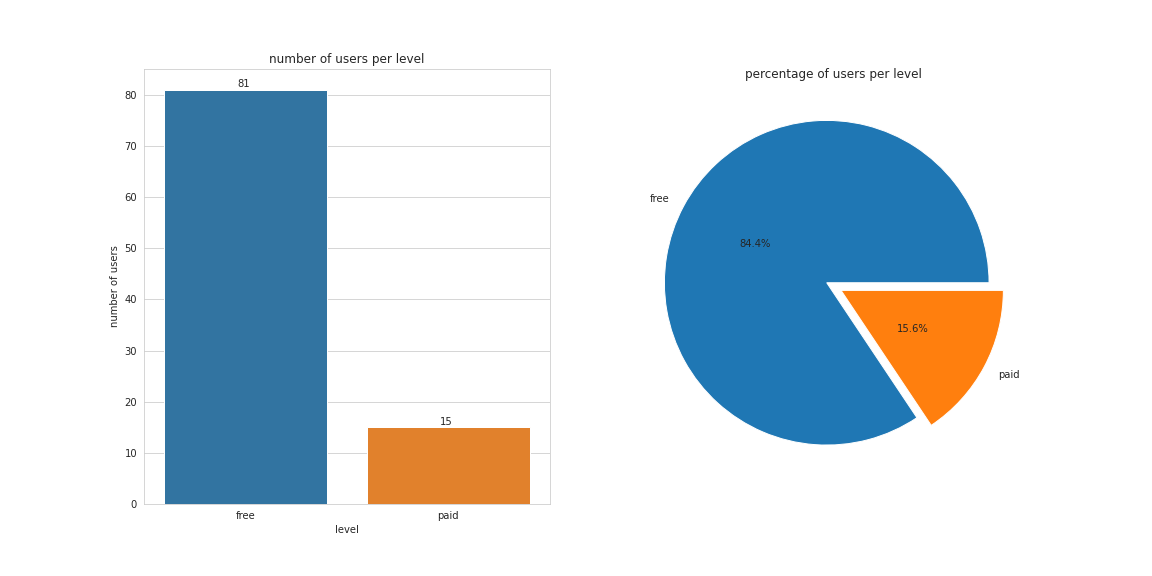
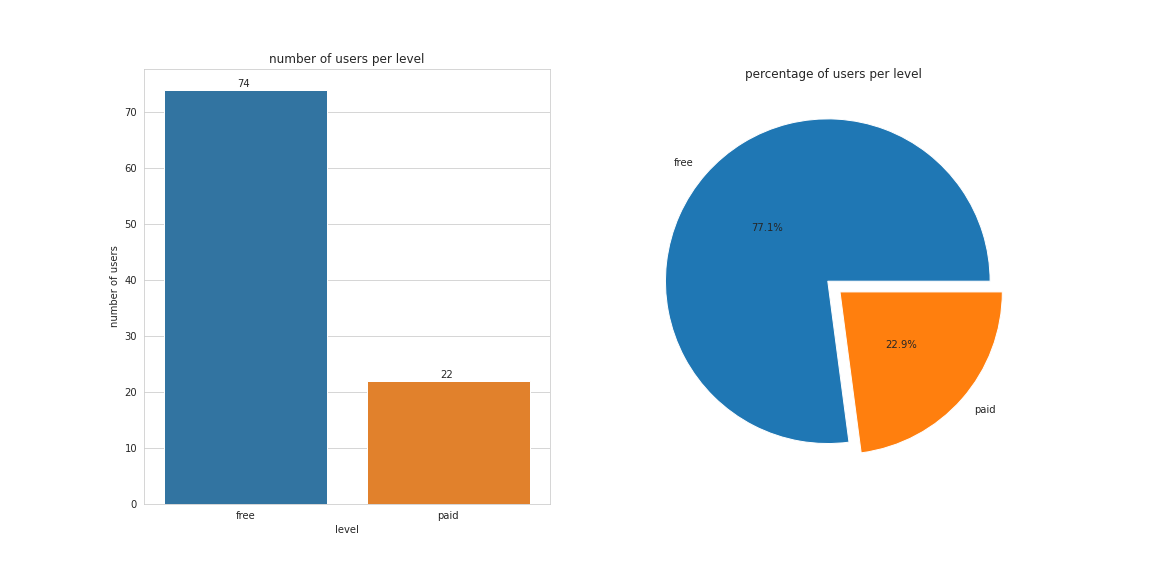
set data constraint NOT NULL, set DO UPDATE level on the table users

diff --git a/sql_queries.py b/sql_queries.py
@@ -2,7 +2,7 @@
 # @Author: anh-tuan.vu
 # @Date:   2020-12-09 21:49:31
 # @Last Modified by:   anh-tuan.vu
-# @Last Modified time: 2020-12-13 08:46:27
+# @Last Modified time: 2020-12-13 20:09:21
 
 # DROP TABLES
 
@@ -17,9 +17,9 @@ time_table_drop = "DROP TABLE IF EXISTS times;"
 songplay_table_create = ("""
 CREATE TABLE songplays(
     songplay_id SERIAL PRIMARY KEY,
-    start_time TIMESTAMP,
-    user_id INT,
-    level VARCHAR,
+    start_time TIMESTAMP NOT NULL,
+    user_id INT NOT NULL,
+    level VARCHAR NOT NULL,
     song_id VARCHAR,
     artist_id VARCHAR,
     session_id INT,
@@ -34,7 +34,7 @@ CREATE TABLE users(
     first_name VARCHAR,
     last_name VARCHAR,
     gender CHAR,
-    level VARCHAR
+    level VARCHAR NOT NULL
 );
 """)
 
@@ -42,7 +42,7 @@ song_table_create = ("""
 CREATE TABLE songs(
     song_id VARCHAR PRIMARY KEY,
     title VARCHAR,
-    artist_id VARCHAR,
+    artist_id VARCHAR NOT NULL,
     year INT,
     duration DECIMAL
 );
@@ -84,7 +84,8 @@ user_table_insert = ("""
 INSERT INTO users(user_id, first_name, last_name, gender, level)
 VALUES(%s, %s, %s, %s, %s)
 ON CONFLICT(user_id)
-DO NOTHING;
+DO UPDATE
+    SET level = EXCLUDED.level;
 """)
 
 song_table_insert = ("""

diff --git a/README.md b/README.md
@@ -63,16 +63,36 @@ Finally, we have a database schema optimized on queries on song play in the figu
 <img src="images/sparkify_schema.svg" alt="Sparkify Database Schema">
 </p>
 
+## Data Constraints
+
+Foreign keys are required NOT NULL. Those are fields:
+- *artist_id* of the table **songs**
+- *start_time, user_id, song_id, artist_id* of the table **songplays**. However, to ease the tests, I let *song_id* and *artist_id* are IS NULL.
+
+In my opinion, the column *level* of the table **user** and table **songplays** are also NOT NULL.
+
 ## Inserting Data
 
-Since the data is loaded in from files, there may be a conflict at tables **users, songs, artists,** and **time** on its primary key if that user, song, artist, and time have been added earlier. We need, therefore, to set *do nothing* if having conflict when inserting data. For example,
+Since the data is loaded in from files, there may be a conflict at tables **songs, artists,** and **time** on its primary key if that user, song, artist, and time have been added earlier. We need, therefore, to set *do nothing* if having conflict when inserting data. For example,
+
+```SQL
+song_table_insert = ("""
+INSERT INTO songs(song_id, title, artist_id, year, duration)
+VALUES(%s, %s, %s, %s, %s)
+ON CONFLICT(song_id)
+DO NOTHING;
+""")
+```
+
+Since users might change from `free` to `paid` and vice versa, we update the column  *level* for **users** table for the existing records.
 
 ```SQL
 user_table_insert = ("""
 INSERT INTO users(user_id, first_name, last_name, gender, level)
 VALUES(%s, %s, %s, %s, %s)
 ON CONFLICT(user_id)
-DO NOTHING;
+DO UPDATE
+    SET level = EXCLUDED.level;
 """)
 ```
 
